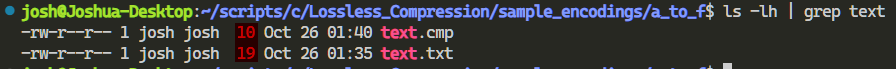
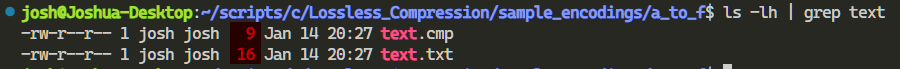
Update README for encoding change

diff --git a/README.md b/README.md
@@ -17,6 +17,33 @@ exist to help with bit manipulation (ex. `set_ith_bit` in [`encoder.c`](encoder.
 algorithms keep buffers of `unsigned char` that bits are stored in before being written to the file or
 being decoded into text.
 
+## Compressed File Details
+### The Encoding created has the following specification:
+- body containing content bytes
+    - Last compressed character may be less than a full byte which is smaller than the minimum
+      size the OS handles (one byte) so it is padded with `n` trailing zeros until it is a full byte
+      (8 bits) in length
+- [`FOOTER_SIZE`](encoding.h) (1) byte file footer containing `n`, the number of trailing zeros
+  used as padding in the last encoded character
+
+## Encoding notes
+### Change in encoding with commit d3646b48fa4f5123156e2e7a5166fcc7be7d10f2
+The Encoding data structure defined in [`encoding.h`](encoding.h) was changed with commit d3646b48fa4f5123156e2e7a5166fcc7be7d10f2.
+While the old structure was more space and runtime efficient (with bitwise operations and single
+integer comparisons to handle comparing encodings) the old format did not allow for leading zeros
+in an encoding
+
+(Encoding leading zeros in a binary format would result in `011` evaluating to the
+integer `3` which is the same as the binary encoding `11` even though these are both valid
+prefix-free encodings in this context)
+
+Allowing for leading zeros in the encoding increases the number of available prefix-free encodings
+for an alphabet which decreases the average binary encoding size (number of bits).
+
+The increase in compression rate was why I made the choice to refactor the code and change the format.
+
+The previous format and bitwise manipulation can be viewed in this prior state: https://github.com/JLenander/huffman_coding_c/tree/56131b92b1cceee0cf663af51ffd542873b2675f
+
 ## Examples
 #### Small encoding consisting of characters {a,b,c,d,e,f,\n}
 - [original text](/sample_encodings/a_to_f/text.txt)
@@ -25,7 +52,8 @@ being decoded into text.
 - [decompressed file](/sample_encodings/a_to_f/decompressed.txt)
 - [small script to run the compression and decompression](/sample_encodings/a_to_f/run_sample.sh)
 
-The uncompressed file (`text.txt`) takes up 19 bytes while the compressed file (`test.cmp`) takes up 10 bytes.
-![image showing the uncrompressed file takes up 19 bytes while the compressed file takes up 10 bytes](/imgs/a_to_f_size.png)
+The uncompressed file (`text.txt`) takes up 16 bytes while the compressed file (`test.cmp`) takes up 9 bytes.
+![image showing the uncrompressed file takes up 16 bytes while the compressed file takes up 9 bytes](/imgs/a_to_f_size.png)
 Hex values of the corresponding files
-![image showing hexadecimal encoding of the plaintext and compressed files](/imgs/a_to_f_hex.png)
+![image showing hexadecimal encoding of the plaintext files](/imgs/a_to_f_hex.png)
+![image showing hexadecimal encoding of the compressed file](/imgs/a_to_f_hex_cmp.png)
